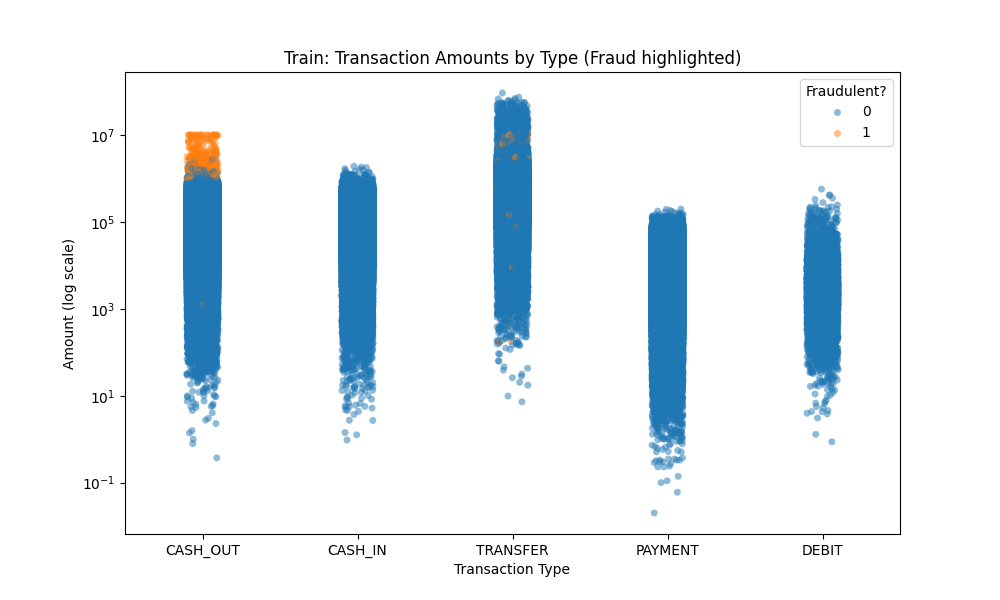
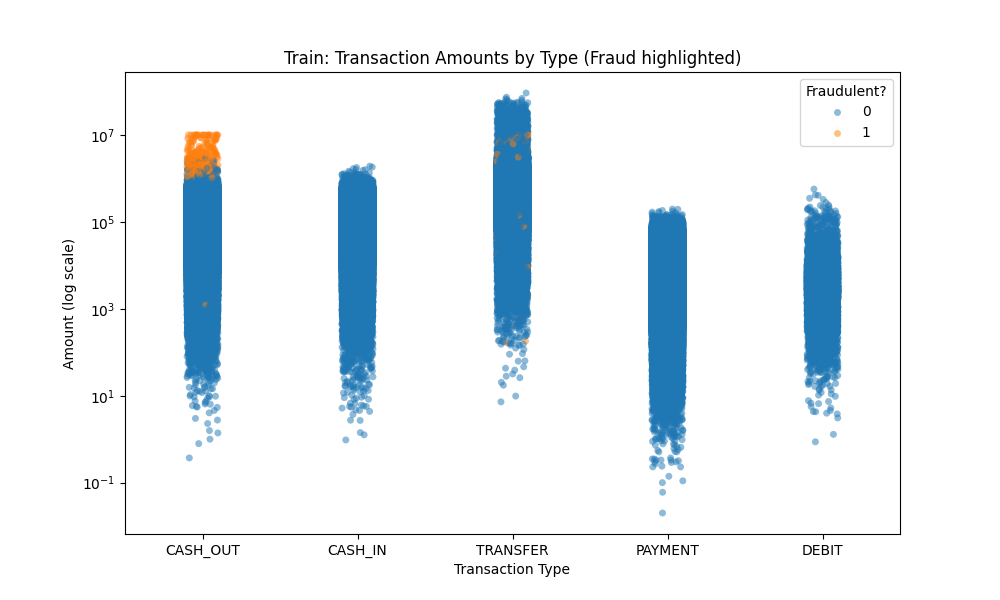
feat: Added print statement

diff --git a/notebooks/2_Feature_Engineering_Pipeline.py b/notebooks/2_Feature_Engineering_Pipeline.py
@@ -1067,6 +1067,19 @@ def export_featured_datasets(
         print(f"{split_name}: merchants as origin shape {merchants_orig.shape}")
 
         filtered_df = df[~df['nameDest'].str.contains('M')]
+        
+        print(f"\\n--- {split_name}: NON-Merchant Stats ---")
+        if not filtered_df.empty:
+            print(
+                f"{split_name}: NON-merchants isFraud unique: {filtered_df['isFraud'].unique()}"
+            )
+            if 'isFlaggedFraud' in filtered_df.columns:
+                print(
+                    f"{split_name}: NON-merchants isFlaggedFraud unique: "
+                    f"{filtered_df['isFlaggedFraud'].unique()}"
+                )
+        print(f"{split_name}: NON-merchants as destination shape {filtered_df.shape}")
+
         without_path = os.path.join(
             without_merchants_dir, f'FE_{split_name.lower()}_without_merchants.csv'
         )
@@ -1145,10 +1158,16 @@ def main():
     run_full_feature_pipeline(split_frames, export=True, plots_dir=plots_dir)
     print("Feature engineering pipeline complete.")
 
-    print("\n--- Final Columns ---")
+    print("\n--- Final Columns (with merchants) ---")
     for split_name, df in split_frames.items():
         print(f"\nColumns for {split_name} data:")
         print(df.columns)
+
+    print("\n--- Final Columns (without merchants) ---")
+    for split_name, df in split_frames.items():
+        filtered_df = df[~df['nameDest'].str.contains('M')]
+        print(f"\nColumns for {split_name} data (without merchants):")
+        print(filtered_df.columns)
 
     
 
